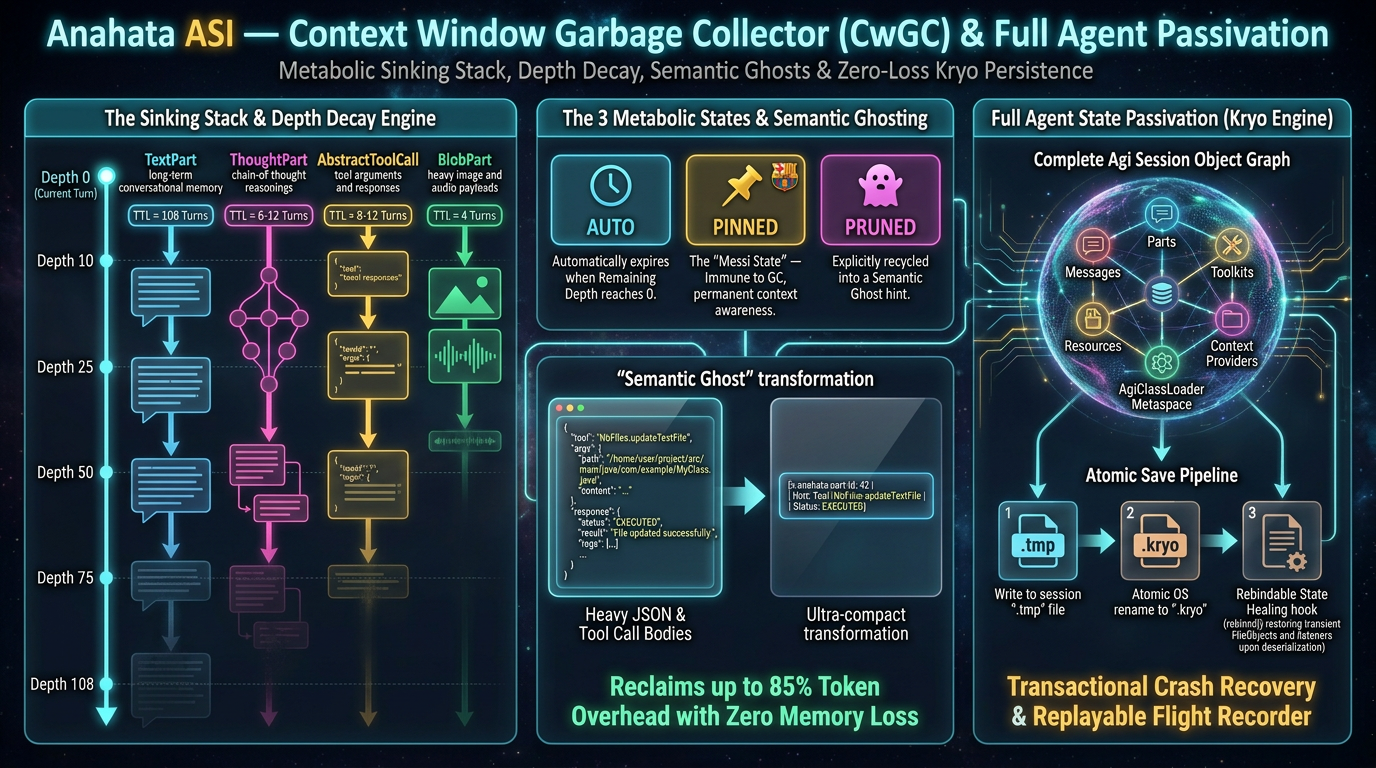
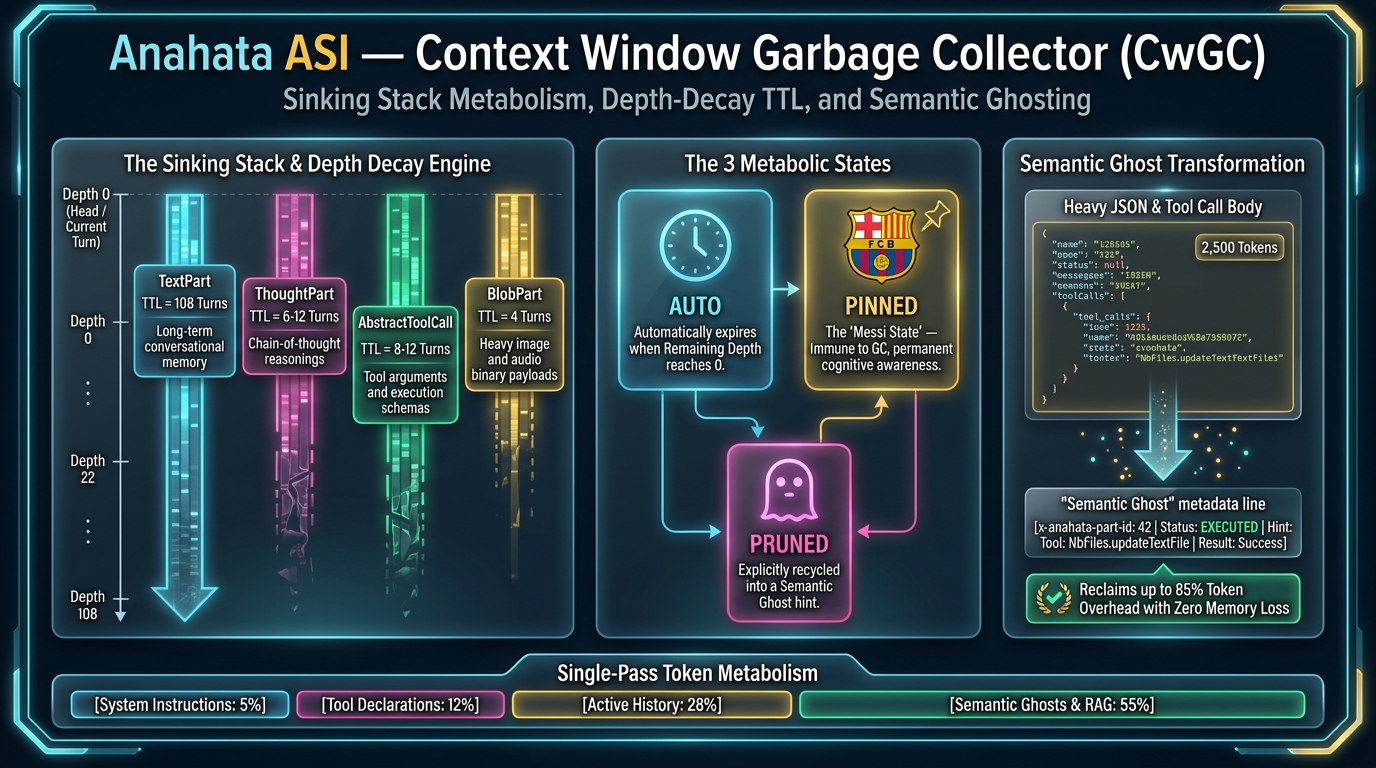
more images

diff --git a/anahata-asi-web/src/main/resources/web/index.html b/anahata-asi-web/src/main/resources/web/index.html
@@ -421,6 +421,9 @@
                         <span><span style="color: var(--barca-gold); font-weight: 800; text-shadow: 0 0 10px rgba(237, 187, 0, 0.4);"><i class="fas fa-shield-halved" style="color: var(--barca-gold); margin-right: 6px;"></i>100% Sovereign &amp; Air-Gapped.</span> Local LLMs, In-Memory JVM Isolation &amp; Zero Cloud Leakage.</span>
                     </div>
                     <div class="punchline-slide">
+                        <span><b>Context Windows that Never Overflow.</b> Depth-Decay Token Reclamation via the CwGC Metabolic Engine.</span>
+                    </div>
+                    <div class="punchline-slide">
                         <span><span style="color: #4faaff; font-weight: 700; text-shadow: 0 0 10px rgba(79, 170, 255, 0.4);">Pure Java</span> &nbsp;&bull;&nbsp; <span style="color: #ff5c5c; font-weight: 700; text-shadow: 0 0 10px rgba(255, 92, 92, 0.4);">Enterprise Ready</span> &nbsp;&bull;&nbsp; <span style="color: var(--barca-gold); font-weight: 700; text-shadow: 0 0 10px rgba(237, 187, 0, 0.4);">Apache Licensed</span></span>
                     </div>
                 </div>
@@ -446,6 +449,14 @@
                                 <p>Self-Evolving Runtime: Agents Define & Run Their Own Bytecode</p>
                             </div>
                         </div>
+                        <!-- Slide 3: Context Window Garbage Collector (CwGC) -->
+                        <div class="hero-carousel-slide">
+                            <img src="assets/cwgc-pro.png" alt="Anahata ASI Context Window Garbage Collector (CwGC)" class="clickable-media" data-caption="Anahata ASI Context Window Garbage Collector (CwGC) — Sinking Stack Metabolism, Depth-Decay TTL, and Semantic Ghosting">
+                            <div class="hero-carousel-caption">
+                                <span class="caption-tag">Context Window Metabolism</span>
+                                <p>CwGC Sinking Stack: Depth-Decay TTL & Semantic Ghosting</p>
+                            </div>
+                        </div>
                     </div>
                     <!-- Controls -->
                     <button class="carousel-btn prev-btn" id="hero-carousel-prev" aria-label="Previous Slide"><i class="fas fa-chevron-left"></i></button>
@@ -455,6 +466,7 @@
                 <div class="carousel-dots" id="hero-carousel-dots">
                     <span class="dot active" data-index="0"></span>
                     <span class="dot" data-index="1"></span>
+                    <span class="dot" data-index="2"></span>
                 </div>
             </div>
 
